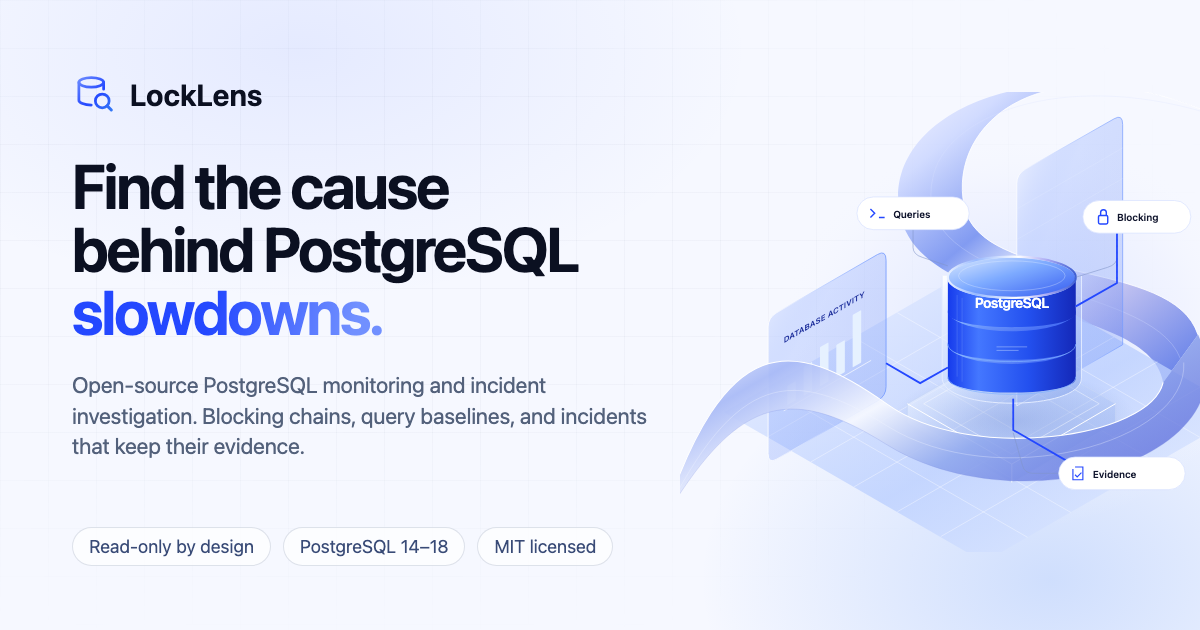
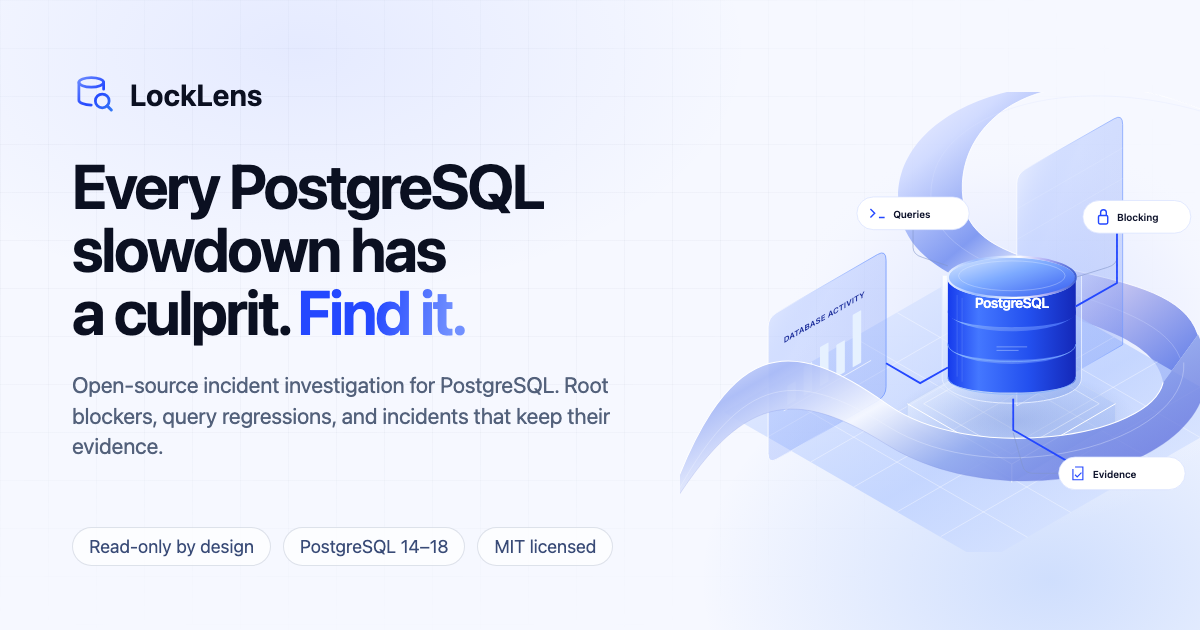
Rewrite the site copy around finding the culprit, drop read-only slogans
- Home and architecture headlines, leads and section labels rewritten:
  "Every PostgreSQL slowdown has a culprit. Find it.", "Built for the
  3 a.m. page", "The lock is gone. The proof isn't.", "Break a
  database. Watch LockLens catch it.", "Under the hood. Out of the way."
- Remove read-only as a slogan or label (hero facts, footer, meta
  description, frame label, scene legend, node, legend and badge names).
  Mechanism details in the Collectors panel still state the READ ONLY
  transaction, and the standby description is unchanged.
- New Open Graph image; tests follow the renamed labels.
- Documentation pages are untouched.

Changed region(s): [[0.0617, 0.2413, 0.4933, 0.5429], [0.0617, 0.6032, 0.555, 0.7238]]

diff --git a/src/islands/data/internal.ts b/src/islands/data/internal.ts
@@ -57,7 +57,7 @@ const col = { tgt: 44, c1: 354, c2: 610, c3: 866, out: 1172 };
 const row = (i: number) => 114 + i * 84;
 
 export const GROUPS: ArchGroup[] = [
-  { id: 'g-target', label: 'Monitored PostgreSQL', sublabel: 'read-only role · pg_read_all_stats', rect: { x: 24, y: 48, w: 260, h: 514 }, tone: 'cyan' },
+  { id: 'g-target', label: 'Monitored PostgreSQL', sublabel: 'monitoring role · pg_read_all_stats', rect: { x: 24, y: 48, w: 260, h: 514 }, tone: 'cyan' },
   { id: 'g-host', label: 'Database host', sublabel: 'optional agents', rect: { x: 24, y: 578, w: 260, h: 214 }, tone: 'slate', dashed: true },
   { id: 'g-server', label: 'locklens server', sublabel: 'one Go process · modular monolith · backend image', rect: { x: 330, y: 48, w: 780, h: 562 }, tone: 'blue', badge: 'single binary' },
   { id: 'g-store', label: 'Monitoring store', sublabel: 'LockLens’ own database, never a monitored one', rect: { x: 330, y: 636, w: 780, h: 156 }, tone: 'emerald' },
@@ -173,10 +173,10 @@ export const NODES: ArchNode[] = [
     },
   },
   {
-    id: 'collectors', title: 'Collectors', subtitle: 'read-only · scheduled', icon: 'Radar', tone: 'cyan', rect: { x: col.c1, y: row(2), w: W, h: H },
+    id: 'collectors', title: 'Collectors', subtitle: 'scheduled · bounded', icon: 'Radar', tone: 'cyan', rect: { x: col.c1, y: row(2), w: W, h: H },
     details: {
       kind: 'domain/collector, targetdb',
-      purpose: 'Read-only SQL on their own schedules: activity, load, database, statements, replication, tables, table_activity, changes, catalog, host.',
+      purpose: 'Statistics queries on their own schedules: activity, load, database, statements, replication, tables, table_activity, changes, catalog, host.',
       data: ['default_transaction_read_only=on and a READ ONLY transaction for every collection', 'statement_timeout 30 s, lock_timeout 2 s, idle_in_transaction_session_timeout 60 s', 'application_name = locklens; LockLens’ own PIDs are excluded'],
       schedule: 'Adaptive sampling: during a problem, activity every 3 s and statements every 5 s for 10 minutes. A collector over 10% of its interval three times runs less often.',
       refs: ['backend/internal/domain/collector/', 'backend/internal/targetdb/'],
@@ -392,7 +392,7 @@ export const EDGES: ArchEdge[] = [
   { id: 'e-man-col', from: 'manager', to: 'collectors', kind: 'process', label: 'schedule', opts: { from: 'b', to: 't' } },
   { id: 'e-t1', from: 't-sessions', to: 'collectors', kind: 'collect', opts: { from: 'r', to: 'l', toOffset: -18, via: [{ x: 300, y: 143 }, { x: 300, y: 293 }] } },
   { id: 'e-t2', from: 't-statements', to: 'collectors', kind: 'collect', opts: { from: 'r', to: 'l', fromOffset: 12, toOffset: -9, via: [{ x: 308, y: 239 }, { x: 308, y: 302 }] } },
-  { id: 'e-t3', from: 't-counters', to: 'collectors', kind: 'collect', label: 'read-only SQL', labelOffset: { x: -2, y: -14 }, opts: { from: 'r', to: 'l' } },
+  { id: 'e-t3', from: 't-counters', to: 'collectors', kind: 'collect', label: 'stats SQL', labelOffset: { x: -2, y: -14 }, opts: { from: 'r', to: 'l' } },
   { id: 'e-t4', from: 't-replication', to: 'collectors', kind: 'collect', opts: { from: 'r', to: 'l', toOffset: 9, via: [{ x: 308, y: 395 }, { x: 308, y: 320 }] } },
   { id: 'e-t5', from: 't-catalog', to: 'collectors', kind: 'collect', opts: { from: 'r', to: 'l', toOffset: 18, via: [{ x: 300, y: 479 }, { x: 300, y: 329 }] } },
   { id: 'e-host', from: 'node-exporter', to: 'collectors', kind: 'collect', label: 'HTTP scrape', labelOffset: { x: 0, y: 30 }, opts: { from: 'r', to: 'b', toOffset: -80, via: [{ x: 316, y: 653 }, { x: 316, y: 354 }, { x: 384, y: 354 }] } },
@@ -436,14 +436,14 @@ export const STEPS: ArchStep[] = [
     id: 'connect',
     title: 'Connect',
     summary: 'A PostgreSQL target is added to LockLens.',
-    detail: 'An administrator pastes a connection string. The target registry encrypts it (AES-256-GCM), the manager starts a worker with a small read-only pool, and capabilities are detected: version, standby, pg_read_all_stats, pg_stat_statements.',
+    detail: 'An administrator pastes a connection string. The target registry encrypts it (AES-256-GCM), the manager starts a worker with a small connection pool, and capabilities are detected: version, standby, pg_read_all_stats, pg_stat_statements.',
     nodes: ['registry', 'manager', 't-statements', 't-sessions', 't-counters', 't-replication', 't-catalog'],
     edges: ['e-reg-man', 'e-man-tgt'],
   },
   {
     id: 'collect',
     title: 'Collect',
-    summary: 'Read-only queries periodically read PostgreSQL statistics.',
+    summary: 'Scheduled queries periodically read PostgreSQL statistics.',
     detail: 'Each worker runs its collectors one at a time on their own schedules, under a global concurrency limit. Every collection runs in a READ ONLY transaction with statement, lock and idle timeouts. node_exporter is scraped only if configured.',
     nodes: ['manager', 'collectors', 't-sessions', 't-statements', 't-counters', 't-replication', 't-catalog', 'node-exporter'],
     edges: ['e-man-col', 'e-t1', 'e-t2', 'e-t3', 'e-t4', 'e-t5', 'e-host'],

diff --git a/src/islands/data/topology.ts b/src/islands/data/topology.ts
@@ -90,7 +90,7 @@ const exampleDetails = (purpose: string, extra?: string): NodeDetails => ({
 
 const pgDetails = (role: string, extra: string): NodeDetails => ({
   kind: `Monitored target · ${role}`,
-  purpose: `${extra} LockLens connects to it with its own read-only role and a pool of 1–5 connections, separately from application traffic.`,
+  purpose: `${extra} LockLens connects to it with its own monitoring role and a pool of 1–5 connections, separately from application traffic.`,
   data: ['Sessions, locks and blocking (pg_stat_activity, pg_blocking_pids())', 'Statement statistics (pg_stat_statements, optional)', 'Database counters, replication, settings and catalog'],
   note: 'The PostgreSQL server is real infrastructure you run; the name is an example. Each server (primary or standby) is its own LockLens target.',
   docs: [docs('PostgreSQL observation', 'architecture/postgresql-observation'), docs('Replication monitoring', 'features/replication')],
@@ -213,7 +213,7 @@ export const NODES: TopoNode[] = [
     },
     details: {
       kind: 'LockLens · backend image',
-      purpose: 'One Go process: one worker per target running read-only collectors on a schedule, the rules engine and incident recorder, notifications, metric exports, and the REST + SSE API.',
+      purpose: 'One Go process: one worker per target running collectors on a schedule, the rules engine and incident recorder, notifications, metric exports, and the REST + SSE API.',
       data: ['Global limit LOCKLENS_MAX_CONCURRENT_COLLECTIONS (default 4)', 'A slow or failing target only affects its own worker', 'Tested locally with up to 20 targets on one machine; larger fleets not yet measured'],
       note: 'Out of band: if LockLens stops, applications keep working; LockLens’ own history gets a gap.',
       docs: [docs('Architecture', 'architecture'), docs('Collectors', 'architecture/collectors')],
@@ -331,7 +331,7 @@ export const GROUPS: TopoGroup[] = [
     at: { fleet: { x: 970, y: 368, w: 490, h: 106 }, ha: { x: 970, y: 368, w: 490, h: 106 } },
   },
   {
-    id: 'grp-ll', label: 'LockLens · out of band', sublabel: 'observes PostgreSQL; never in the request path', tone: 'cyan', badge: 'read-only',
+    id: 'grp-ll', label: 'LockLens · out of band', sublabel: 'observes PostgreSQL; never in the request path', tone: 'cyan', badge: 'observer',
     at: {
       single: { x: 250, y: 456, w: 1010, h: 150 },
       cluster: { x: 540, y: 548, w: 600, h: 274 },
@@ -375,7 +375,7 @@ export const EDGES: TopoEdge[] = [
   { id: 'r-c1', from: 'pg-commerce', to: 'pg-commerce-r1', kind: 'repl', modes: ['cluster', ...BIG] },
   { id: 'r-c2', from: 'pg-commerce', to: 'pg-commerce-r2', kind: 'repl', modes: ['cluster', ...BIG] },
   { id: 'r-p1', from: 'pg-payments', to: 'pg-payments-r1', kind: 'repl', modes: BIG },
-  // Monitoring: LockLens' own read-only connections, one target per server
+  // Monitoring: LockLens' own connections, one target per server
   { id: 'm-commerce', from: 'pg-commerce', to: 'll-a', kind: 'collect', modes: ALL, monitor: { lane: 'primary', serverByMode: { ha: 'll-a' } } },
   { id: 'm-commerce-r1', from: 'pg-commerce-r1', to: 'll-a', kind: 'collect', modes: ['cluster', ...BIG], monitor: { lane: 'replica', serverByMode: { ha: 'll-a' } } },
   { id: 'm-commerce-r2', from: 'pg-commerce-r2', to: 'll-a', kind: 'collect', modes: ['cluster', ...BIG], monitor: { lane: 'replica', serverByMode: { ha: 'll-c' } } },
@@ -411,7 +411,7 @@ export const MODE_COPY: Record<Mode, ModeCopy> = {
     lead: 'One application, one PostgreSQL server, one LockLens deployment (backend, frontend, store) and one dashboard.',
     points: [
       'Create a role with pg_read_all_stats and paste its connection string in Settings → Instances.',
-      'The application keeps talking to PostgreSQL exactly as before; LockLens opens its own small read-only pool.',
+      'The application keeps talking to PostgreSQL exactly as before; LockLens opens its own small connection pool.',
       'make up starts the backend, frontend and store with random secrets on 127.0.0.1.',
     ],
     caveat: 'Collection has a cost: catalog queries on a schedule, and pg_blocking_pids() briefly locks the lock manager per waiting backend.',

diff --git a/src/islands/ProductionTopology.tsx b/src/islands/ProductionTopology.tsx
@@ -128,7 +128,7 @@ type Visibility = Record<'app' | 'collect' | 'repl' | 'alert', boolean>;
 type Phase = 'all' | 'app' | 'collect' | 'deliver' | 'alert';
 const PHASES: { id: Phase; caption: string }[] = [
   { id: 'app', caption: '1 · Application traffic flows through your own infrastructure.' },
-  { id: 'collect', caption: '2 · Separately, LockLens reads PostgreSQL statistics over its own read-only connections.' },
+  { id: 'collect', caption: '2 · Separately, LockLens reads PostgreSQL statistics over its own connections.' },
   { id: 'deliver', caption: '3 · It stores history in its own store; engineers read it through the LockLens frontend.' },
   { id: 'alert', caption: '4 · Incidents and metrics leave LockLens only to destinations you configure.' },
 ];
@@ -627,13 +627,13 @@ function MobileTopology({ mode, onSelect }: { mode: Mode; onSelect: (id: string)
 
       <div className="flex items-center gap-2 px-2 text-xs text-accent">
         <svg width="22" height="6" aria-hidden="true"><line x1="1" y1="3" x2="21" y2="3" stroke={FLOWS.collect.color} strokeWidth="2" strokeDasharray={FLOWS.collect.dash} /></svg>
-        LockLens reads {dbs.length === 1 ? 'the PostgreSQL server' : `each of the ${dbs.length} PostgreSQL servers`} over its own read-only connection{dbs.length === 1 ? '' : 's'}
+        LockLens reads {dbs.length === 1 ? 'the PostgreSQL server' : `each of the ${dbs.length} PostgreSQL servers`} over its own connection{dbs.length === 1 ? '' : 's'}
       </div>
 
       <section className="panel border-accent/30 p-4" aria-label="LockLens">
         <div className="flex items-center gap-2">
           <h4 className="text-sm font-semibold text-fg">LockLens · out of band</h4>
-          <span className="chip ml-auto">read-only</span>
+          <span className="chip ml-auto">observer</span>
         </div>
         <ul className="mt-3 space-y-1.5">
           {ll.map((n) => {

diff --git a/src/islands/InvestigationJourney.tsx b/src/islands/InvestigationJourney.tsx
@@ -3,10 +3,10 @@ import InvestigationExperience from './InvestigationExperience';
 import { useReducedMotion } from './diagram/hooks';
 
 const chapters = [
-  { title: 'Start with the signals.', label: 'Observe', text: 'Sessions are active. Work is moving. Keep the activity and the query in the same frame before a wait becomes an incident.', scene: 0 },
-  { title: 'Connect the waits.', label: 'Correlate', text: 'The same sessions now form a blocking chain. Follow each waiter back to PID 4127, the transaction holding up the work.', scene: 2 },
-  { title: 'Investigate the cause.', label: 'Investigate', text: 'A rule has opened incident #42. Read the root session, affected queries, and collected observations together.', scene: 4 },
-  { title: 'Keep the full picture.', label: 'Preserve', text: 'The chain clears. Its evidence stays: snapshots, sessions, and a timeline you can return to after recovery.', scene: 5 },
+  { title: 'Everything looks fine.', label: 'Observe', text: 'Requests are flowing and statements are short. One reprice job has held a transaction open for 38 s — nobody needs its rows yet.', scene: 0 },
+  { title: 'Checkout starts to wait.', label: 'Correlate', text: 'Checkout requests queue behind the job’s row locks, and inventory-svc queues behind them. Every waiter leads back to PID 4127.', scene: 2 },
+  { title: 'The rule fires.', label: 'Investigate', text: 'The chain outlasted the threshold, so incident #42 opens: the root session, its query and every waiting session, together.', scene: 4 },
+  { title: 'Fixed. Still on record.', label: 'Preserve', text: 'The chain clears, but the snapshots, sessions and timeline stay — so the post-mortem starts from facts, not memory.', scene: 5 },
 ];
 
 export default function InvestigationJourney() {

diff --git a/scripts/og.html b/scripts/og.html
@@ -16,8 +16,8 @@
 <div class="grid"></div><div class="glow"></div><div class="glow2"></div>
 <div class="c">
   <div class="brand"><svg width="44" height="44" viewBox="0 0 32 32" fill="none"><defs><linearGradient id="l" x1="4" y1="3" x2="28" y2="29" gradientUnits="userSpaceOnUse"><stop stop-color="#7190ff"/><stop offset=".55" stop-color="#2448ff"/><stop offset="1" stop-color="#3478f6"/></linearGradient></defs><ellipse cx="14" cy="7.5" rx="9" ry="3.5" stroke="url(#l)" stroke-width="2"/><path d="M5 7.5v13c0 1.9 4 3.5 9 3.5M23 7.5v5" stroke="url(#l)" stroke-width="2" stroke-linecap="round"/><circle cx="22" cy="21" r="5" stroke="url(#l)" stroke-width="2"/><path d="m25.6 24.6 3 3" stroke="url(#l)" stroke-width="2.2" stroke-linecap="round"/></svg>LockLens</div>
-  <h1>Find the cause<br>behind PostgreSQL<br><span class="g">slowdowns.</span></h1>
-  <p>Open-source PostgreSQL monitoring and incident investigation. Blocking chains, query baselines, and incidents that keep their evidence.</p>
+  <h1>Every PostgreSQL<br>slowdown has<br>a culprit. <span class="g">Find it.</span></h1>
+  <p>Open-source incident investigation for PostgreSQL. Root blockers, query regressions, and incidents that keep their evidence.</p>
 </div>
 <svg class="g2" width="540" height="460" style="font-family:Inter,system-ui,sans-serif" viewBox="0 0 760 620" role="img" aria-label="PostgreSQL at the centre of an investigation, with activity, locks and evidence arranged around it">
     <defs>

diff --git a/src/islands/HeroScene.tsx b/src/islands/HeroScene.tsx
@@ -7,7 +7,7 @@ const PHASES = [
   { ms: 2600, caption: 'Application queries run normally' },
   { ms: 2200, caption: 'pid 4127 updates rows and keeps its transaction open' },
   { ms: 2600, caption: 'Other sessions wait for its row locks' },
-  { ms: 2200, caption: 'LockLens observes PostgreSQL out of band, read-only' },
+  { ms: 2200, caption: 'LockLens observes PostgreSQL out of band' },
   { ms: 3000, caption: 'Blocking graph: root blocker pid 4127, 3 sessions waiting' },
   { ms: 4200, caption: 'The incident keeps the evidence for investigation' },
 ] as const;
@@ -159,7 +159,7 @@ export default function HeroScene({ screenshot }: { screenshot: { src: string; w
                   <animateMotion dur="1.4s" begin={`${k * 0.7}s`} repeatCount="indefinite" path="M458,300 C520,300 560,330 560,384" />
                 </circle>
               ))}
-            <text x={494} y={288} fill="#087f5b" fontSize={9.5} style={{ opacity: observing ? 1 : 0, transition: 'opacity 600ms' }}>read-only</text>
+            <text x={494} y={288} fill="#087f5b" fontSize={9.5} style={{ opacity: observing ? 1 : 0, transition: 'opacity 600ms' }}>observing</text>
             <g transform="translate(494, 388)">
               <rect width={134} height={52} rx={14} fill="#ffffff" stroke={observing ? '#087f5b' : 'rgba(148,163,184,0.3)'} strokeWidth={observing ? 1.6 : 1} style={{ transition: 'stroke 500ms' }} />
               <g transform="translate(12, 13)">

diff --git a/tests/responsive.spec.ts b/tests/responsive.spec.ts
@@ -36,7 +36,7 @@ test('architecture uses guided mobile layouts instead of shrunken canvases', asy
   const ia = page.locator('#internal .ia-root');
   await ia.scrollIntoViewIfNeeded();
   await expect(ia.locator('svg.diagram-svg')).toBeHidden();
-  await expect(ia.getByRole('region', { name: 'Monitored PostgreSQL (read-only)' })).toBeVisible();
+  await expect(ia.getByRole('region', { name: 'Monitored PostgreSQL' })).toBeVisible();
   await ia.getByRole('button', { name: /Collectors/ }).first().click();
   await expect(ia.getByText('READ ONLY transaction', { exact: false }).first()).toBeVisible();
   const pt = page.locator('#production .pt-root');
@@ -64,7 +64,7 @@ test('mobile investigation and architecture details remain interactive', async (
   await page.goto('/architecture/#internal');
   const pipeline = page.locator('.pipeline-explorer');
   await expect(pipeline.getByRole('button', { name: 'Deep Dive', exact: true })).toBeEnabled();
-  await pipeline.getByRole('button', { name: 'Read-only collection Schedules, rates, live state', exact: true }).click();
+  await pipeline.getByRole('button', { name: 'Collection Schedules, rates, live state', exact: true }).click();
   await expect(pipeline.getByRole('complementary')).toContainText('Included components');
   const topology = page.locator('.pt-root');
   await topology.scrollIntoViewIfNeeded();

diff --git a/src/islands/InternalArchitecture.tsx b/src/islands/InternalArchitecture.tsx
@@ -189,7 +189,7 @@ function StepNarration({ step, compact }: { step: number; compact?: boolean }) {
 }
 
 const MOBILE_GROUPS: { id: string; label: string; nodes: string[] }[] = [
-  { id: 'g-target', label: 'Monitored PostgreSQL (read-only)', nodes: ['t-sessions', 't-statements', 't-counters', 't-replication', 't-catalog'] },
+  { id: 'g-target', label: 'Monitored PostgreSQL', nodes: ['t-sessions', 't-statements', 't-counters', 't-replication', 't-catalog'] },
   { id: 'g-host', label: 'Database host (optional)', nodes: ['node-exporter', 'log-agent'] },
   { id: 'g-collect', label: 'locklens server · collect', nodes: ['registry', 'manager', 'collectors', 'deltas', 'live', 'writer'] },
   { id: 'g-analyse', label: 'locklens server · analyse', nodes: ['graph', 'rules', 'recorder', 'insight', 'optimizer', 'changes'] },

diff --git a/src/lib/site.ts b/src/lib/site.ts
@@ -2,9 +2,9 @@ import { REPO_URL } from './source.mjs';
 
 export const SITE = {
   name: 'LockLens',
-  tagline: 'Open-source PostgreSQL monitoring and incident investigation',
+  tagline: 'Find the culprit behind every PostgreSQL slowdown',
   description:
-    'LockLens is open-source PostgreSQL monitoring and incident investigation: blocking chains with their root blocker, query performance against its own baseline, and incidents that keep their evidence. Read-only by design.',
+    'LockLens is open-source incident investigation for PostgreSQL: it names the root blocker of a blocking chain, flags statements that got slower than their own baseline, and keeps the evidence of every incident. Self-hosted and MIT licensed.',
   repo: REPO_URL,
   issues: `${REPO_URL}/issues`,
   releases: `${REPO_URL}/releases`,

diff --git a/src/islands/SignalComparison.tsx b/src/islands/SignalComparison.tsx
@@ -175,8 +175,8 @@ export default function SignalComparison() {
       <div className="comparison-summary" aria-live="polite">
         <p>
           {connected
-            ? "The same signals. A connected investigation."
-            : "The signals exist. The connections take work."}
+            ? "Same signals. One story. One culprit."
+            : "Four places to look. Nothing connects them."}
         </p>
         <a href={siteUrl("/docs/features/incidents/")}>
           Follow the evidence <ArrowUpRight size={16} aria-hidden />

diff --git a/tests/premium.spec.ts b/tests/premium.spec.ts
@@ -97,7 +97,7 @@ test("overview selection, flow controls, deep dive and topology keyboard", async
     root.getByRole("button", { name: "Deep Dive", exact: true }),
   ).toBeEnabled();
   await root
-    .getByRole("button", { name: /Read-only collection.*Show details/ })
+    .getByRole("button", { name: /^Collection — .*Show details/ })
     .click();
   await expect(root.getByRole("complementary")).toContainText(
     "Included components",

diff --git a/src/islands/diagram/flows.ts b/src/islands/diagram/flows.ts
@@ -22,7 +22,7 @@ export const FLOWS: Record<FlowKind, FlowStyle> = {
     color: 'var(--flow-monitor, #087a9e)',
     dash: '7 5',
     width: 1.7,
-    label: 'Read-only collection',
+    label: 'Monitoring collection',
     description: 'LockLens’ own connections reading PostgreSQL statistics views on a schedule.',
   },
   process: {
